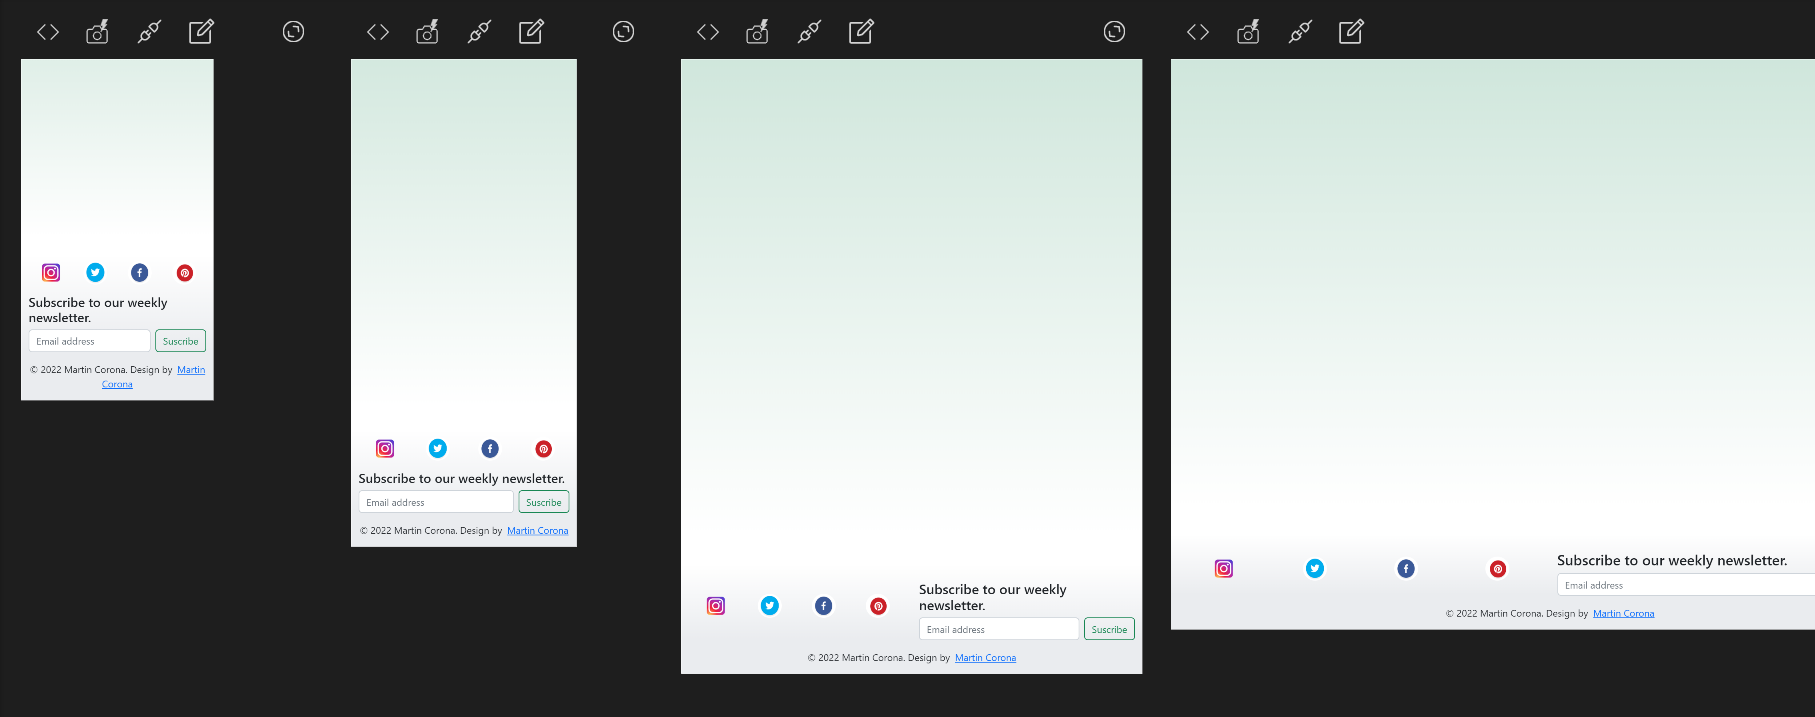
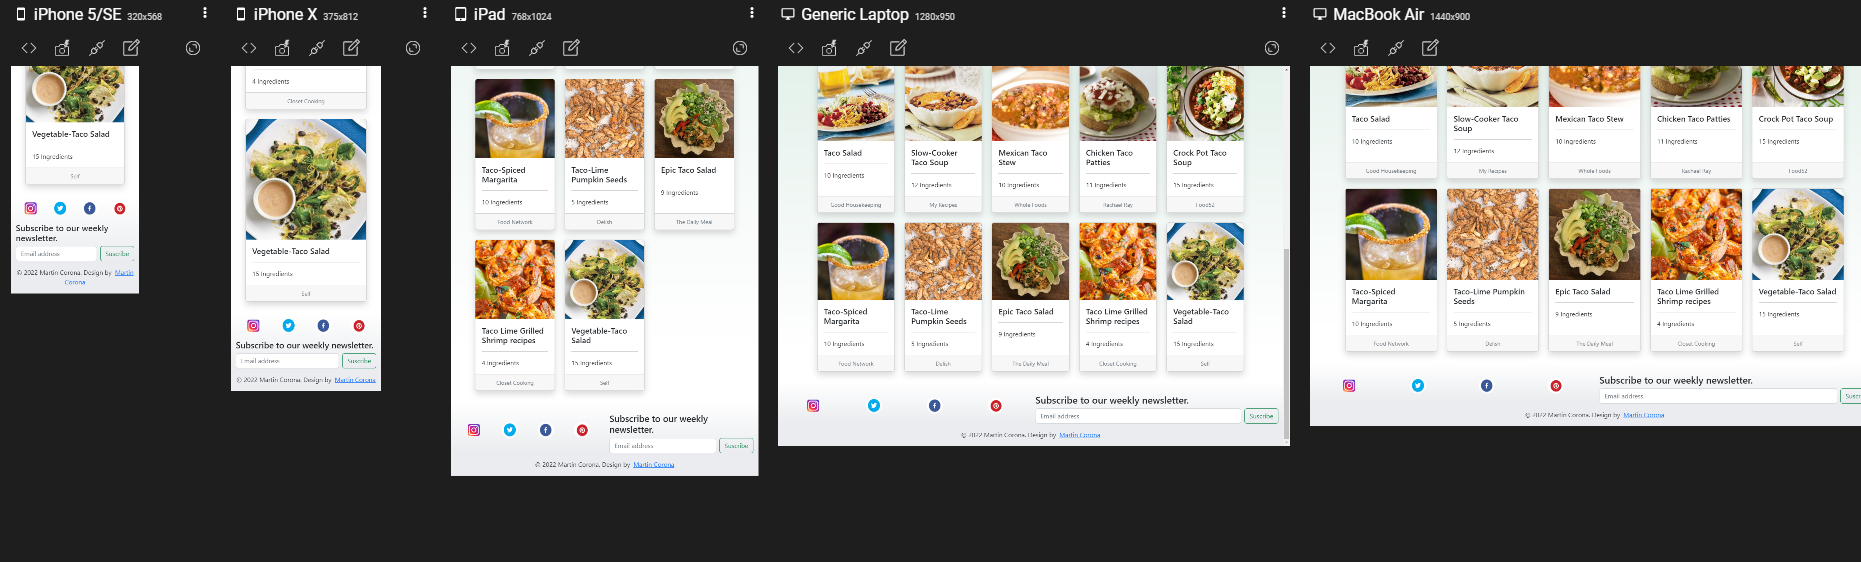
front-end adding RESTfull API and fix issue in header mobile, adding card to recipe menu

diff --git a/front-end/src/components/pages/Register.tsx b/front-end/src/components/pages/Register.tsx
@@ -1,0 +1,89 @@
+import React, {useState,useEffect, ChangeEvent,FormEvent} from "react"; 
+import * as authService from "../../services/auth"
+const initialState = {
+  firstName: "",
+  lastName: "",
+  user: "",
+  email: "",
+  password: "",
+  confirmPassword: "" 
+}
+function Register(){
+  const [user,setUser] = useState(initialState);
+  const handlerInput = (e: ChangeEvent<HTMLInputElement>) => {
+    setUser({...user,[e.target.id]: e.target.value})
+  }
+  const handlerForm = async (e: FormEvent<HTMLFormElement>) => {
+    e.preventDefault(); 
+    console.log(e)
+    console.log(user)
+
+    try {
+      await authService.signUp({
+        firstName: user.firstName,
+        lastName: user.lastName,
+        user: user.user,
+        email: user.email,
+        password: user.password
+        
+      }).then((response: any)=> {
+        console.log("SUCCESS",response);
+      }).catch((response: any)=> {
+        console.log("NOP",response)
+      })      
+    } catch (error) {
+      console.log(error)
+    }
+  }
+  useEffect(()=>{
+    //console.log(user);
+  },[])
+  return(
+    <>
+      <div className="container">
+        <div className="row">
+          <div className="col-sm-9 col-md-7 col-lg-5 mx-auto">
+            <div className="card border-0 shadow rounded-3 my-5">
+              <div className="card-body p-4 p-sm-5">
+                <h5 className="card-title text-center mb-5 fw-light fs-5">Sing Up</h5>
+                <form onSubmit={handlerForm}>
+                  <div className="form-floating mb-3">
+                    <input type="text" className="form-control" id="firstName" placeholder="namesa" aria-describedby="user" value={user.firstName} onChange={handlerInput}/>
+                    <label >First Name</label>
+                  </div>
+                  <div className="form-floating mb-3">
+                    <input type="text" className="form-control" id="lastName" placeholder="namesa" aria-describedby="user" value={user.lastName} onChange={handlerInput}/>
+                    <label >Last Name</label>
+                  </div>
+                  <div className="form-floating mb-3">
+                    <input type="text" className="form-control" id="user" placeholder="namesa" aria-describedby="user" value={user.user} onChange={handlerInput}/>
+                    <label >User</label>
+                  </div>
+                  <div className="form-floating mb-3">
+                    <input type="text" className="form-control" id="email" placeholder="name@example.com" value={user.email} onChange={handlerInput}/>
+                    <label >Email address</label>
+                  </div>
+                  <div className="form-floating mb-3">
+                    <input type="password" className="form-control" id="password" placeholder="Password" value={user.password} onChange={handlerInput}/>
+                    <label>Password</label>
+                  </div>
+                  <div className="form-floating mb-3">
+                    <input type="password" className="form-control" id="confirmPassword" placeholder="Confirm Password"value={user.confirmPassword} onChange={handlerInput}/>
+                    <label>Confirm Password</label>
+                  </div>
+                  <hr className="my-4"/>
+                  <div className="d-grid">
+                    <button type="submit" className="btn btn-primary btn-login text-uppercase fw-bold" >Sing 
+                      Up</button>
+                  </div>
+                  
+                </form>
+              </div>
+            </div>
+          </div>
+        </div>
+      </div>
+    </>    
+  )
+}
+export default Register;

diff --git a/front-end/src/components/header/Header.tsx b/front-end/src/components/header/Header.tsx
@@ -1,16 +1,18 @@
 import React from "react";
+import { Link } from "react-router-dom"
 import logo from '../../assets/logo_long.png'
 function Header() {
 
   return (
-    
+
     <nav className="navbar navbar-expand-md navbar-success bg-success bg-opacity-25">
       <div className="container">
-         <div className="row col-sm-12 col-md-2" >
-              <img src={logo} alt="Logo" className="d-inline-block align-text-top size-image"></img>
-         </div> 
 
-        <form className="d-flex" style={{'width': '100%'}} role="search">
+        <Link to="/" className="row col-sm-12 col-md-2">
+          <img src={logo} alt="Logo" className="d-inline-block align-text-top size-image"></img>
+        </Link>
+
+        <form className="d-flex" style={{ 'width': '100%' }} role="search">
           <button className="navbar-toggler" type="button" data-bs-toggle="collapse" data-bs-target="#navbarSupportedContent" aria-controls="navbarSupportedContent" aria-expanded="false" aria-label="Toggle navigation">
             <span className="navbar-toggler-icon"></span>
           </button>
@@ -18,24 +20,23 @@ function Header() {
             <input className="form-control  border-success ms-2 custom-search-input color-b" type="search" placeholder="Search" aria-label="Search"></input>
             <button className="btn btn-success custom-search-button" type="submit">Search</button>
           </div>
-          
+
         </form>
-       
-
- 
-        
-
-
-
         <div className="collapse navbar-collapse" id="navbarSupportedContent">
-          <ul className="navbar-nav me-auto mb-2 mb-lg-0">
-            <li className="nav-item">
-              <a className="nav-link active" aria-current="page" href="#">Home</a>
-            </li>
-            <li className="nav-item">
-              <a className="nav-link" href="#">Link</a>
-            </li>     
-          </ul>
+          <div className="container">
+            <div className="navbar-nav ">
+              <li className="nav-item" >
+                <Link to="/login" className="nav-link active" aria-current="page" style={{ whiteSpace: "nowrap" }}>Log in</Link>
+
+              </li>
+              <li className="nav-item" >
+                <Link to="/signup" className="nav-link active" aria-current="page" style={{ whiteSpace: "nowrap" }}>Sign Up</Link>
+              </li>
+              <li className="nav-item">
+                <Link to="/my-recipes" className="nav-link active" aria-current="page" style={{ whiteSpace: "nowrap" }}> My Recipes</Link>
+              </li>
+            </div>
+          </div>
         </div>
       </div>
     </nav>

diff --git a/front-end/src/components/pages/Login.tsx b/front-end/src/components/pages/Login.tsx
@@ -1,0 +1,36 @@
+import React from "react";
+function Login(){
+  return(
+    <div>
+      <div className="container">
+        <div className="row">
+          <div className="col-sm-9 col-md-7 col-lg-5 mx-auto">
+            <div className="card border-0 shadow rounded-3 my-5">
+              <div className="card-body p-4 p-sm-5">
+                <h5 className="card-title text-center mb-5 fw-light fs-5">Log In</h5>
+                <form>
+                  <div className="form-floating mb-3">
+                    <input type="email" className="form-control" id="floatingInput" placeholder="name@example.com"/>
+                    <label >Email address</label>
+                  </div>
+                  <div className="form-floating mb-3">
+                    <input type="password" className="form-control" id="floatingPassword" placeholder="Password"/>
+                    <label>Password</label>
+                  </div>
+                  
+                  <hr className="my-4"/>
+                  <div className="d-grid">
+                    <button className="btn btn-primary btn-login text-uppercase fw-bold" type="submit">Log 
+                      in</button>
+                  </div>
+                  
+                </form>
+              </div>
+            </div>
+          </div>
+        </div>
+      </div>
+    </div>
+  )
+}
+export default Login;

diff --git a/front-end/src/components/landing/cards/CardRecipe.tsx b/front-end/src/components/landing/cards/CardRecipe.tsx
@@ -1,0 +1,30 @@
+import React from "react";
+export default function CardRecipe({recipes}: any){
+  return(
+    <div className="row row-cols-1 row-cols-md-3 row-cols-lg-5 row-cols-xl-9 g-4">
+      {
+        recipes.map((element: any,index: any)=>{
+          return(
+            <div className="col " key={index} >
+              <div className="card h-100 card-hover shadow" style={{cursor: "pointer"}}>
+                <img src={element.recipe.image} className="card-img-top" alt="Image not available"/>
+                <div className="card-body">
+                  <h5 className="card-title">{element.recipe.label}</h5>
+                  <hr></hr>
+                  <p className="card-text">
+                    {element.recipe.ingredients.length} Ingredients
+                  </p>
+                </div>
+                <div className="card-footer text-center">
+                  <small className="text-muted">{element.recipe.source}</small>
+                </div>
+
+              </div>
+            </div>
+
+          )
+        })
+      }
+    </div>
+  )
+}

diff --git a/front-end/src/App.tsx b/front-end/src/App.tsx
@@ -1,18 +1,27 @@
 import React from 'react';
+import {Routes,Route} from "react-router-dom";
 import './App.css';
 import Footer from './components/footer/Footer';
 import Header from './components/header/Header';
+import Landing from './components/landing/Landing';
+import Login from './components/pages/Login';
+import Register from './components/pages/Register';
 function App() {
   return (
     <>
+    
       <Header/>
       <div className="page-container">
         <div className="container">
-          Landing
+        <Routes>
+          <Route path="/" element={<Landing/>}/> 
+          <Route path='/login' element={<Login/>}/>
+          <Route path='/signup' element={<Register/>}/>
+        </Routes>         
         </div>
-
       </div>
       <Footer/>
+
     </>
   );  
 }

diff --git a/front-end/src/components/landing/Landing.tsx b/front-end/src/components/landing/Landing.tsx
@@ -1,9 +1,26 @@
 
-import React from "react";
+import React, { useEffect, useState } from "react";
+import {getRecipes} from '../../services/recipe'
+import CardRecipe from "./cards/CardRecipe";
 function Landing(){
+
+  const [recipes,setRecipes] = useState([])
+
+  const getDataSetRecipes = async()=>{
+    await getRecipes("taco").then((response: any)=>{
+      setRecipes(response.data.hits)
+    }).catch((e: Error)=> {
+      console.log(e);
+    })
+  }
+  useEffect(()=> {
+    getDataSetRecipes();
+    console.log("useEffect activated");
+
+  },[])
   return(
-    <div>
-      
+    <div className="container p-4">
+      <CardRecipe recipes={recipes}/>
     </div>
   )
 }

diff --git a/front-end/src/index.tsx b/front-end/src/index.tsx
@@ -6,13 +6,16 @@ import reportWebVitals from './reportWebVitals';
 //styles
 import "bootstrap/dist/css/bootstrap.min.css";
 import "bootstrap/dist/js/bootstrap.bundle"
+import { BrowserRouter } from 'react-router-dom';
 const root = ReactDOM.createRoot(
   document.getElementById('root') as HTMLElement
 );
 root.render(
-  <React.StrictMode>
-    <App />
-  </React.StrictMode>
+    <BrowserRouter>
+      <App />
+    </BrowserRouter>
+    
+  
 );
 
 // If you want to start measuring performance in your app, pass a function

diff --git a/front-end/src/services/recipe.ts b/front-end/src/services/recipe.ts
@@ -1,0 +1,6 @@
+import axios from "axios";
+import {contentHeader} from './auth-header'
+export const getRecipes = (name: string) => {
+  return axios.get(`${process.env.REACT_APP_RESTFULL_API}type=${process.env.REACT_APP_TYPE}&q=${name}&app_id=${
+    process.env.REACT_APP_ID}&app_key=${process.env.REACT_APP_KEY}`,{headers:contentHeader()});
+}

diff --git a/front-end/src/services/auth-header.ts b/front-end/src/services/auth-header.ts
@@ -1,0 +1,8 @@
+import React from "react";
+const contentHeader = () => {
+  return {'Content-Type': 'application/json'}
+}
+const contentAndAuthToken = (token: string) => {
+  return {'Content-Type': 'application/json', 'x-access-token':`${token}`}
+}
+export {contentHeader,contentAndAuthToken};

diff --git a/front-end/src/interfaces/IUser.ts b/front-end/src/interfaces/IUser.ts
@@ -1,0 +1,14 @@
+export interface IUser {
+  _id?: string,
+  firstName: string,
+  lastName: string,
+  user: string,
+  email: string,
+  password: string,
+  createdAt?: string,
+  updtedAt?: string,
+}
+export interface IUserAuth{
+  email: string,
+  password: string
+}

diff --git a/front-end/src/services/auth.ts b/front-end/src/services/auth.ts
@@ -1,0 +1,5 @@
+import axios from "axios";
+import { IUser } from "../interfaces/IUser";
+export const signUp = async(user: IUser) => {
+  return await axios.post<IUser[]>(`${process.env.REACT_APP_APIBACK}/api/v1/auth/signup`,user);
+}

diff --git a/front-end/src/index.css b/front-end/src/index.css
@@ -22,6 +22,9 @@ code {
 .color-b{
   border: 1px solid blue ;
 }
+.color-c{
+  border: 1px solid rgb(94, 255, 0) ;
+}
 /*Header ================================= */
 
 .custom-search-input{
